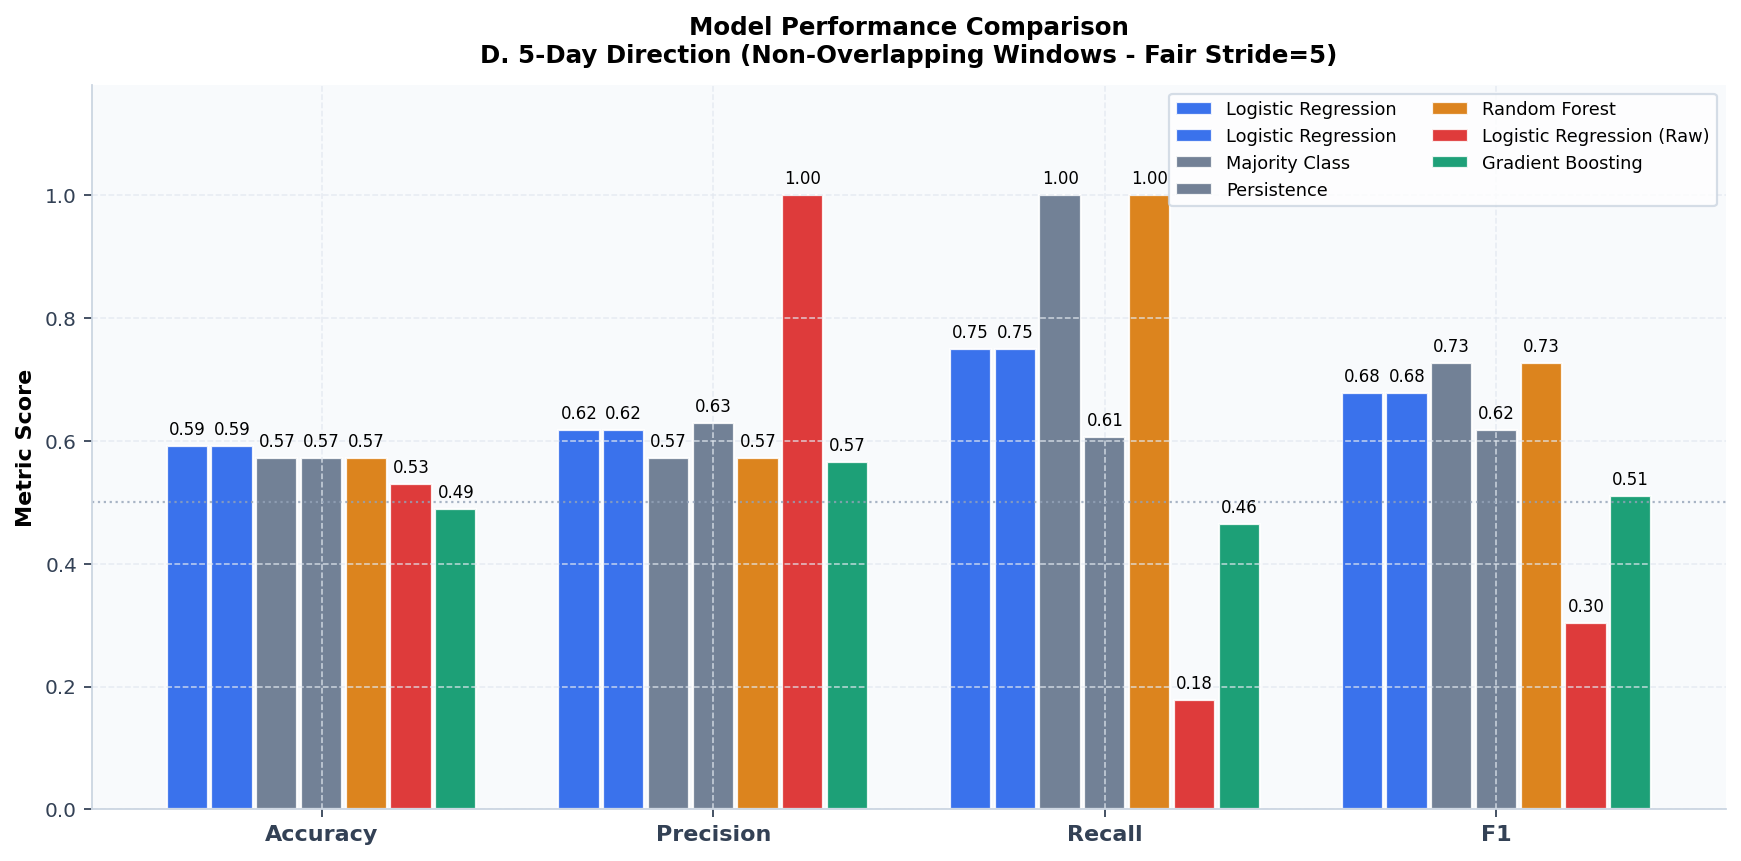
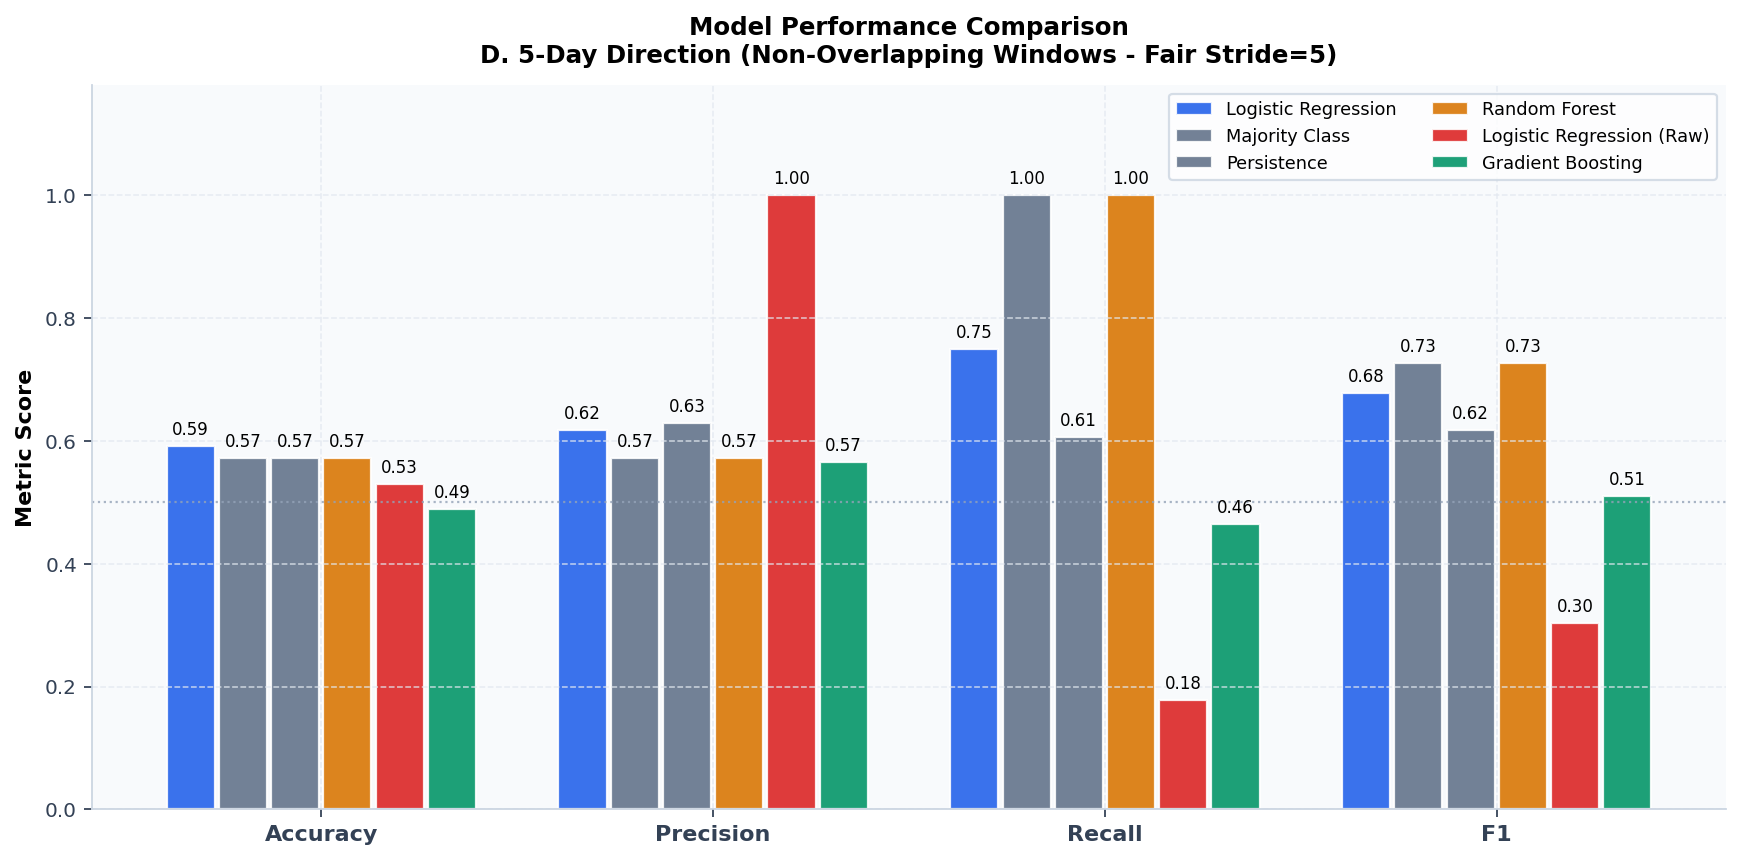
perf: deduplicate evaluation metrics and refresh benchmark figures

diff --git a/run.py b/run.py
@@ -243,10 +243,6 @@ def run_variant(variant: dict, all_results: list) -> pd.DataFrame:
     lr_raw.fit(Xr_tr_s, y_tr)
     evaluate(y_te, lr_raw.predict(Xr_te_s), "Logistic Regression - RAW price features", results, key)
 
-    lr_eng = LogisticRegression(max_iter=1000, random_state=RANDOM_STATE)
-    lr_eng.fit(Xe_tr_s, y_tr)
-    evaluate(y_te, lr_eng.predict(Xe_te_s), "Logistic Regression - ENGINEERED features", results, key)
-
     print("\n" + "=" * 70)
     print("8. MODEL COMPARISON ON ENGINEERED FEATURES")
     print("=" * 70)
